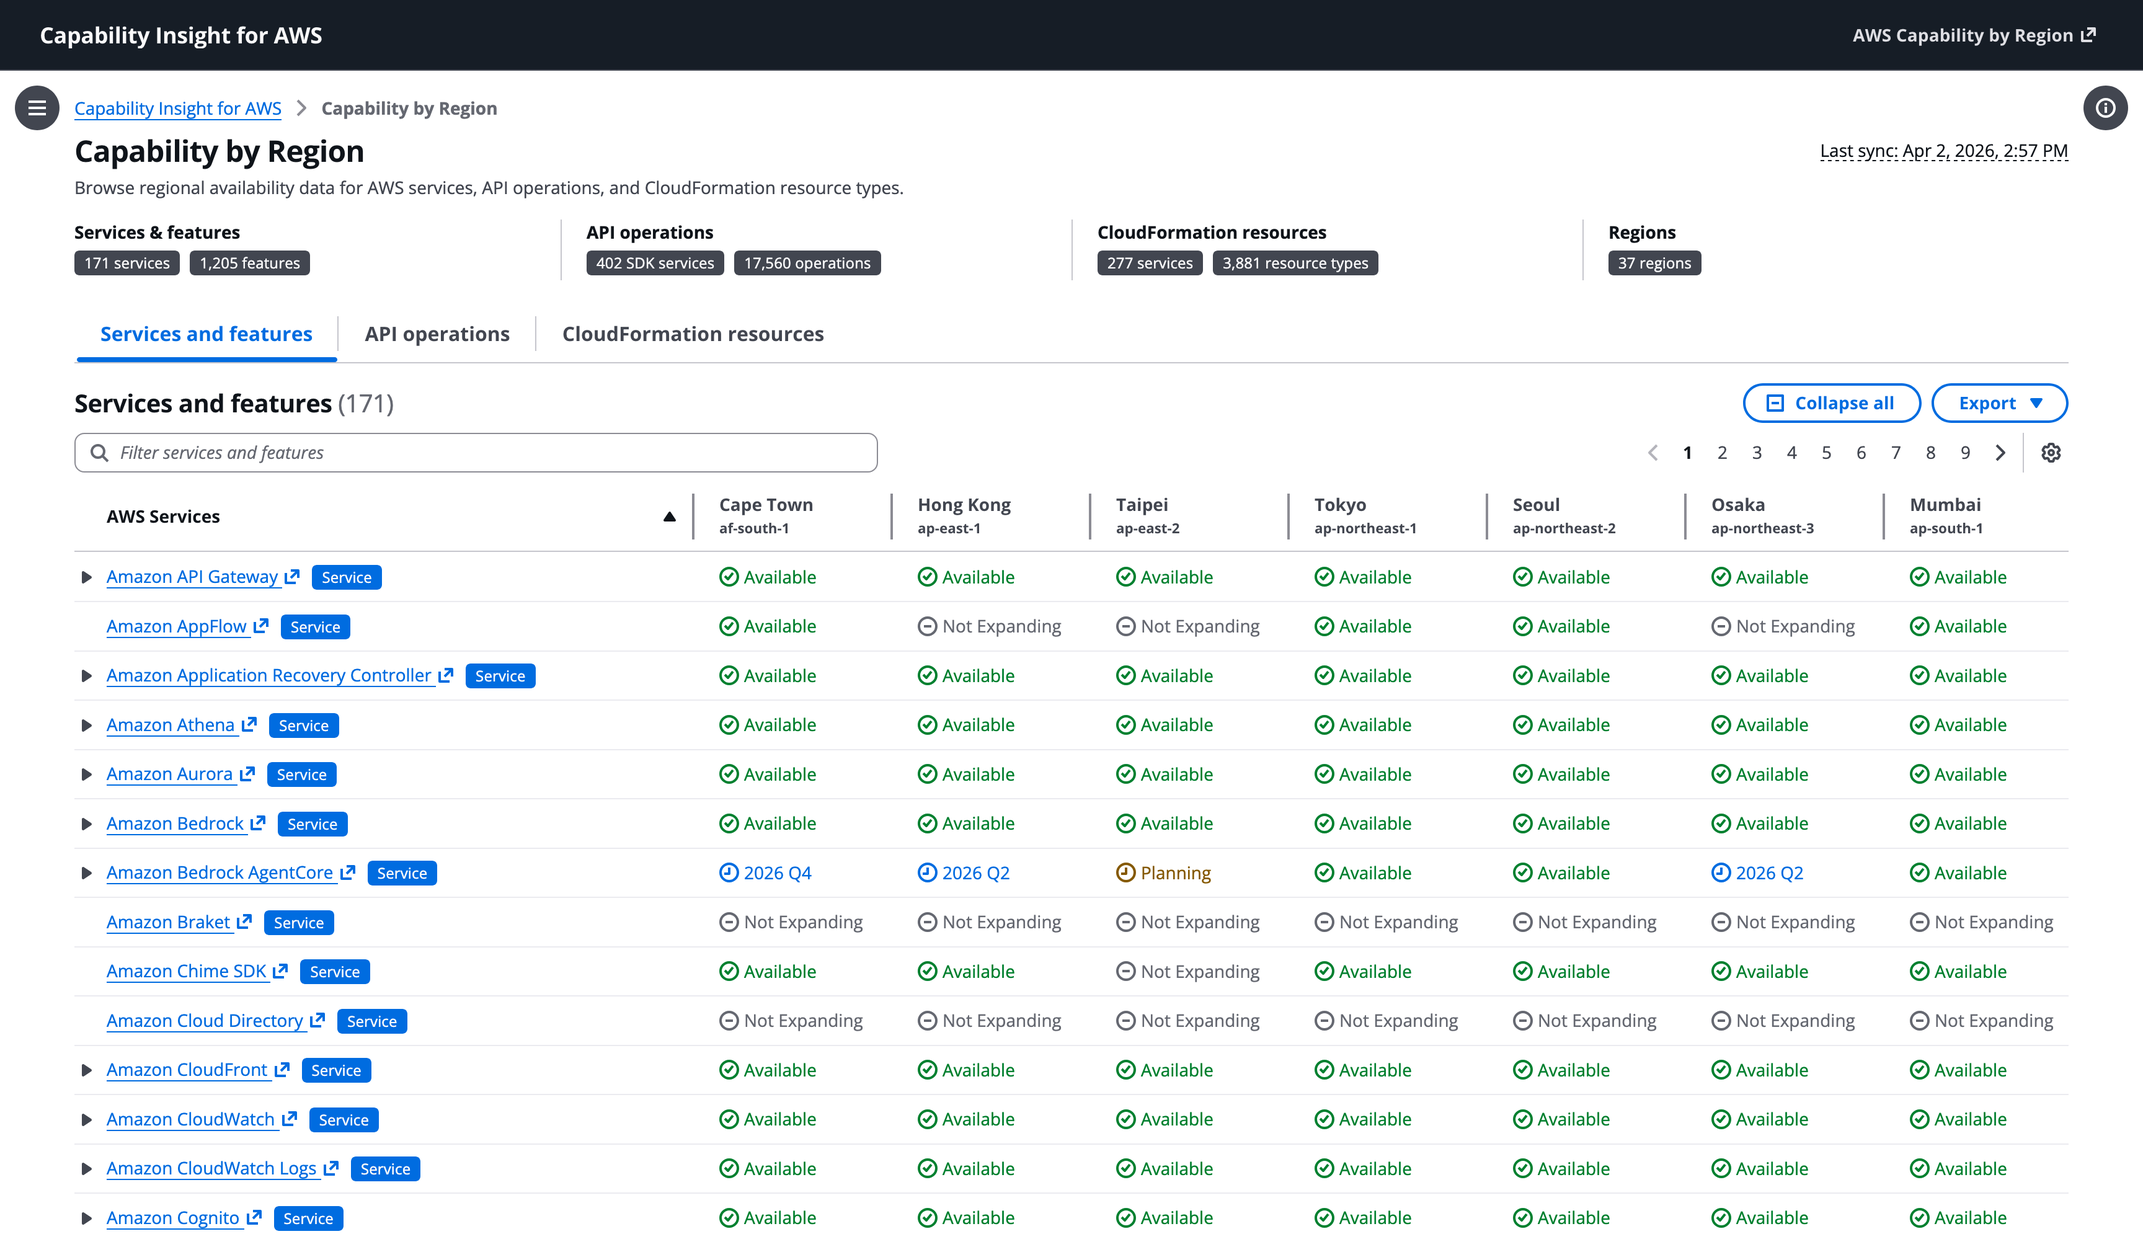
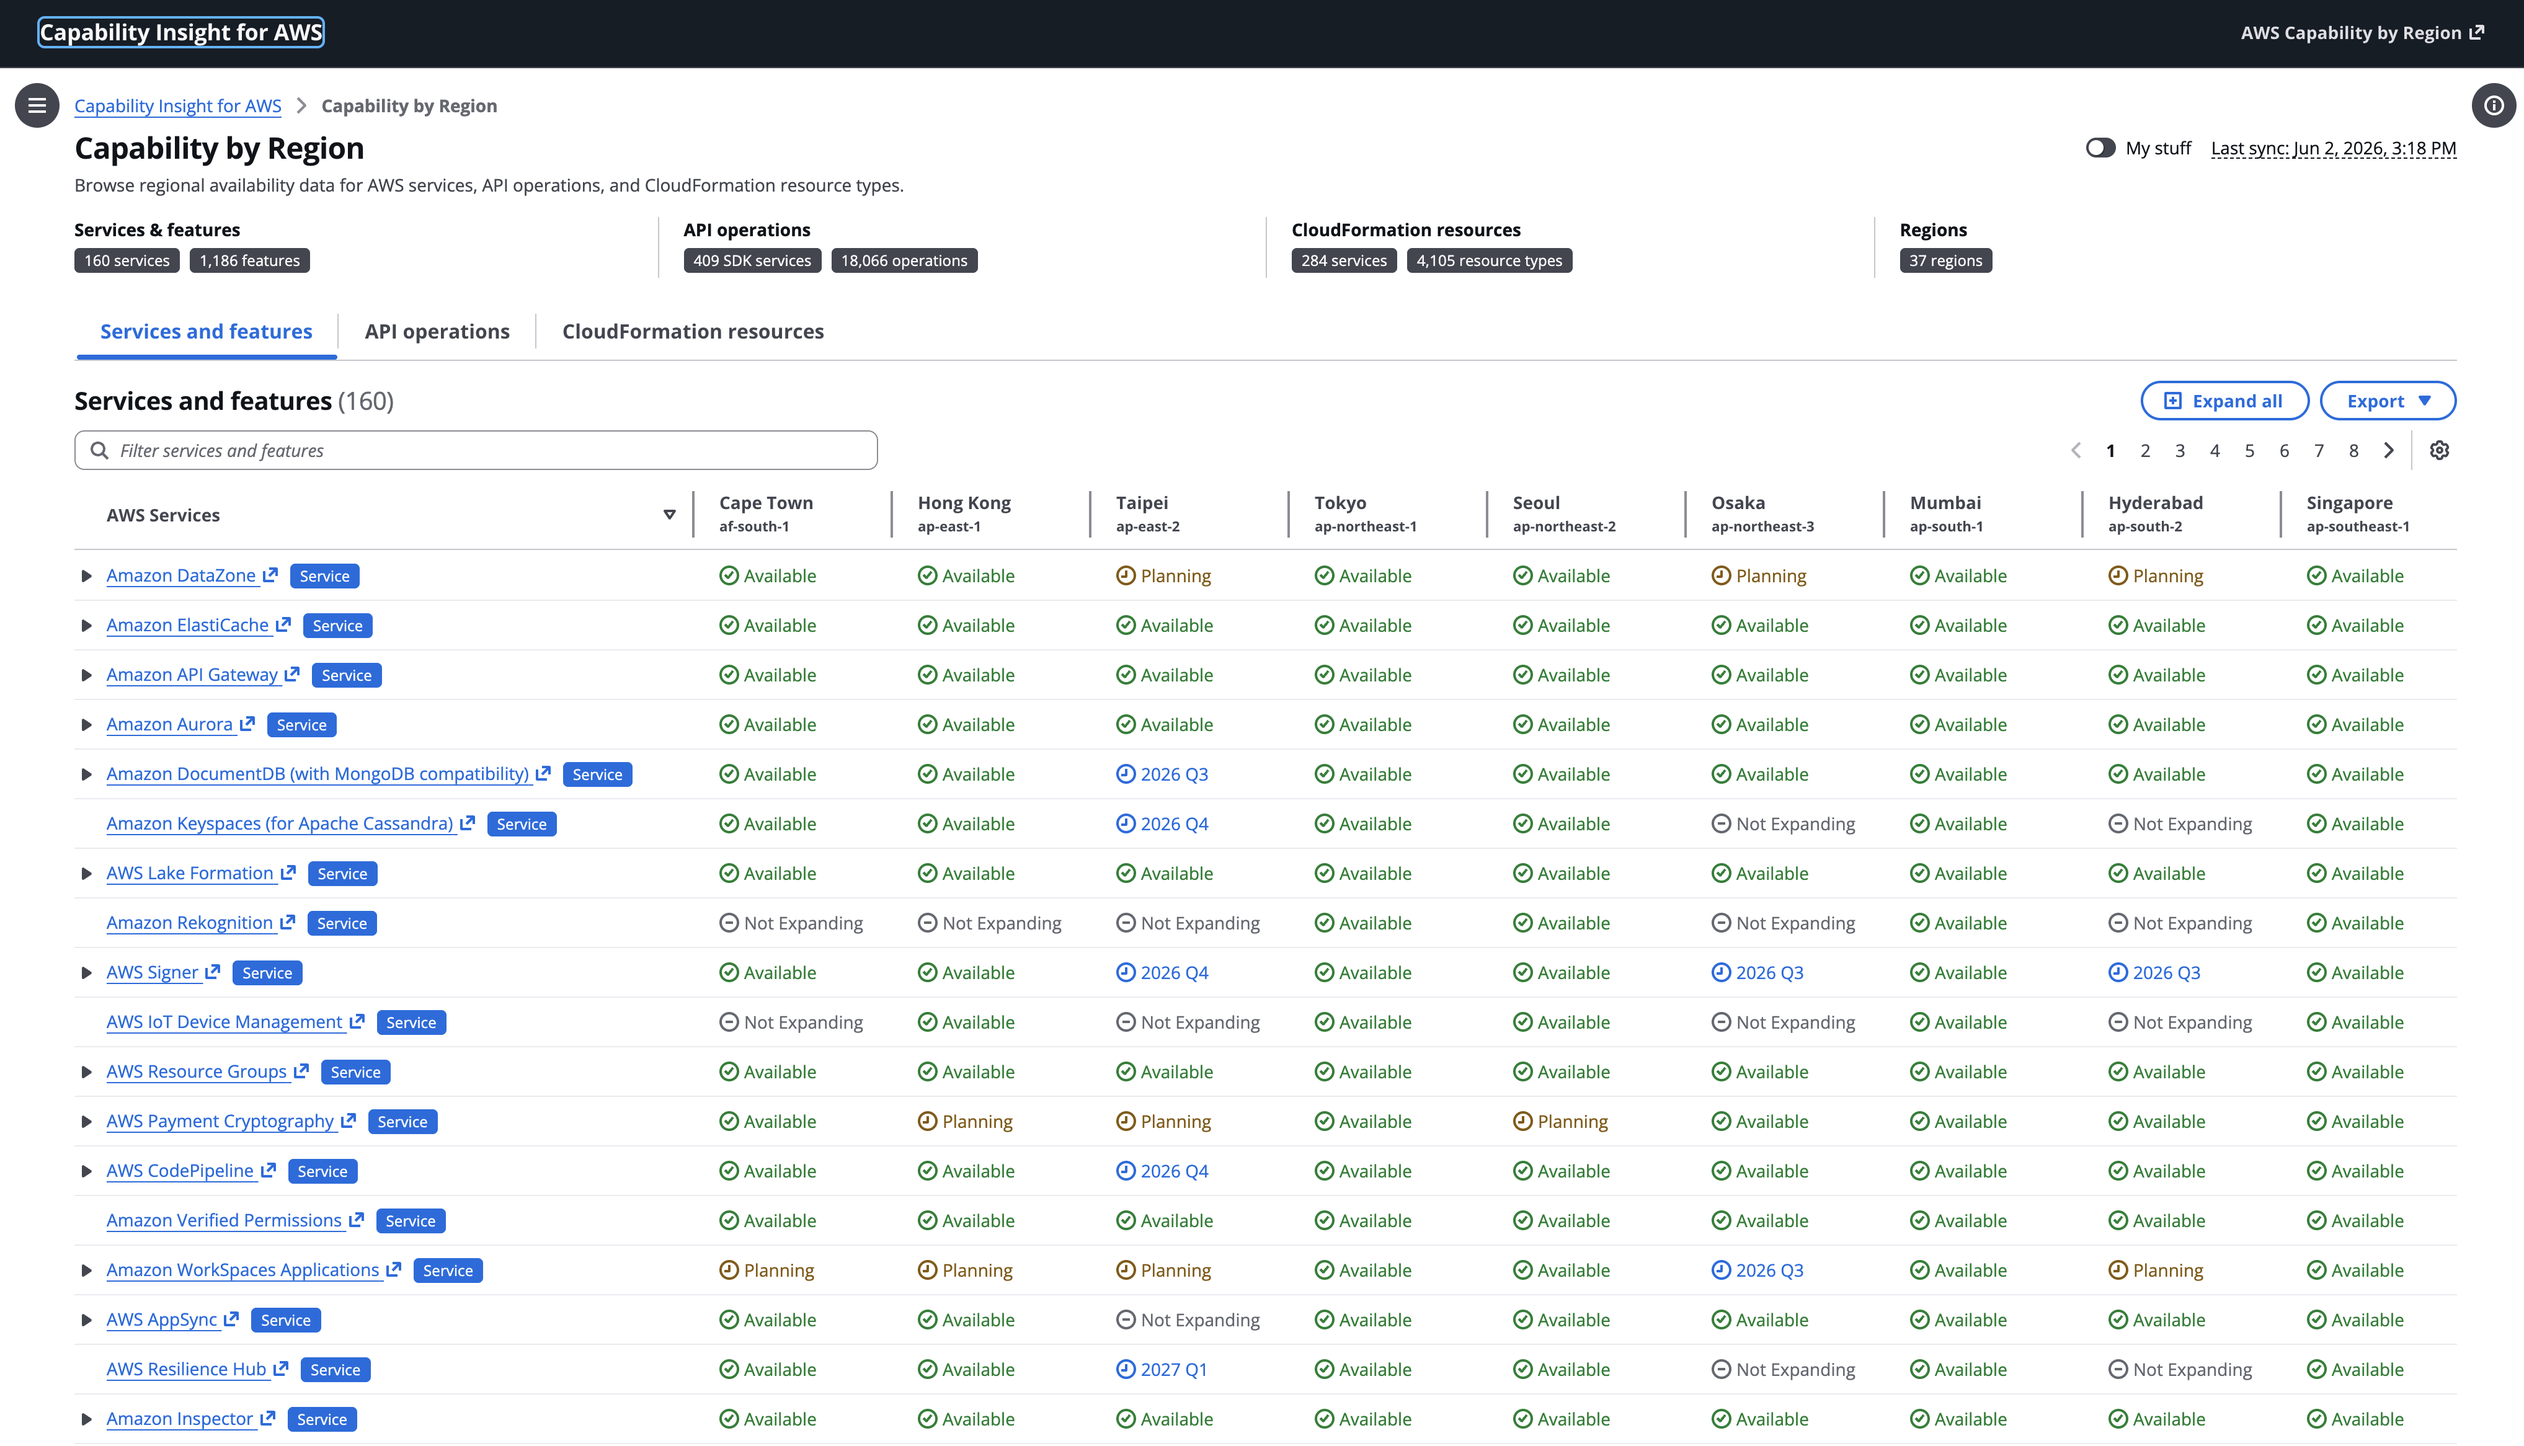
docs: refresh User Guide screenshots + add Usage Analysis architecture diagram
- Updated 'Services and features' and 'Settings' screenshots to reflect v1.1.0 UI
  (My stuff toggle in header, new Usage analysis container on Settings)
- Added 3 new User Guide screenshots: My stuff toggle on, CFN Stack filter, and
  Run usage analysis success state
- Added a dedicated architecture diagram for the opt-in Usage Analysis stack
  (docs/images/personalization-architecture.png + matching .drawio source) and
  referenced it from the Architecture section
- Reworked the 'Personalizing the dashboard (opt-in)' user guide section to walk
  through the toggle, the CFN Stack filter, and triggering analysis from the UI

diff --git a/README.md b/README.md
@@ -38,7 +38,11 @@ The solution deploys entirely within your VPC so that all data remains within yo
 
 ![High-level architecture](docs/images/high-level-architecture.png)
 
-The solution deploys a static website, REST API, and Lambda functions into your VPC. Personalization is provided by an opt-in second stack that adds a Step Functions state machine and analyzer Lambdas that read your account's CloudTrail logs and CloudFormation stacks. For a detailed breakdown of all resources, see [Architecture](#architecture).
+The solution deploys a static website, REST API, and Lambda functions into your VPC. Personalization is provided by an opt-in second stack that adds a Step Functions state machine and analyzer Lambdas that read your account's CloudTrail logs and CloudFormation stacks.
+
+![Usage Analysis architecture](docs/images/personalization-architecture.png)
+
+For a detailed breakdown of all resources, see [Architecture](#architecture).
 
 ## Installation
 
@@ -208,7 +212,7 @@ Since the website is not publicly accessible, you need a way to reach it from wi
 
 ## User Guide
 
-Once deployed, the dashboard provides a searchable view of AWS service, API, and CloudFormation resource availability across regions. This section walks through the main features.
+Once deployed, the dashboard provides a searchable view of AWS service, API, and CloudFormation resource availability across regions, plus an opt-in personalization layer that filters everything to what your account actually uses. This section walks through the main features.
 
 ### Browsing Services and Features
 
@@ -236,7 +240,7 @@ Click the Export button to download the current view as JSON or CSV. This is use
 
 ### Navigation and Settings
 
-Open the side navigation to switch between the Capability by Region dashboard and Settings. The Settings page shows the last sync time and lets you trigger a manual data refresh.
+Open the side navigation to switch between the Capability by Region dashboard and Settings. The Settings page lets you trigger a manual data refresh and, when personalization is enabled, run usage analysis on demand.
 
 ![Navigation](docs/images/user-guide-navigation.png)
 
@@ -244,11 +248,17 @@ Open the side navigation to switch between the Capability by Region dashboard an
 
 ### Personalizing the dashboard (opt-in)
 
-If you deployed with `--enable-usage-analysis`, the dashboard offers a **My Stuff** toggle that filters services, APIs, and CloudFormation resources to only what's actually used in your account. The data is produced by analyzers that read your CloudTrail logs and active CloudFormation stacks, then written back to the website bucket as a personalized data set.
+If you deployed with `--enable-usage-analysis`, the dashboard offers a **My stuff** toggle in the Capability by Region page header. With it on, the table filters down to only the services, APIs, and CloudFormation resources actually used in your account.
 
-The analysis runs on a daily schedule. You can also trigger it on demand from the Settings page using the **Run usage analysis** button. The page shows progress and the result counts when the run completes; refresh the dashboard afterwards to see the updated personalization.
+![My stuff toggle](docs/images/user-guide-personalization-toggle.png)
 
-## Architecture
+The CloudFormation tab also gains a **Stack** filter, letting you narrow resources to those deployed by specific CloudFormation stacks in your account.
+
+![CFN Stack filter](docs/images/user-guide-cfn-stack-filter.png)
+
+The personalized data is produced by analyzers that read your CloudTrail logs and active CloudFormation stacks, then written back to the website bucket as a personalized data set. The analysis runs on a daily schedule. You can also trigger it on demand from the Settings page using the **Run usage analysis** button. The page shows progress and result counts when the run completes; refresh the dashboard afterwards to see the updated personalization.
+
+![Run usage analysis](docs/images/user-guide-run-analysis.png)
 
 This repository provides two CloudFormation stacks:
 
